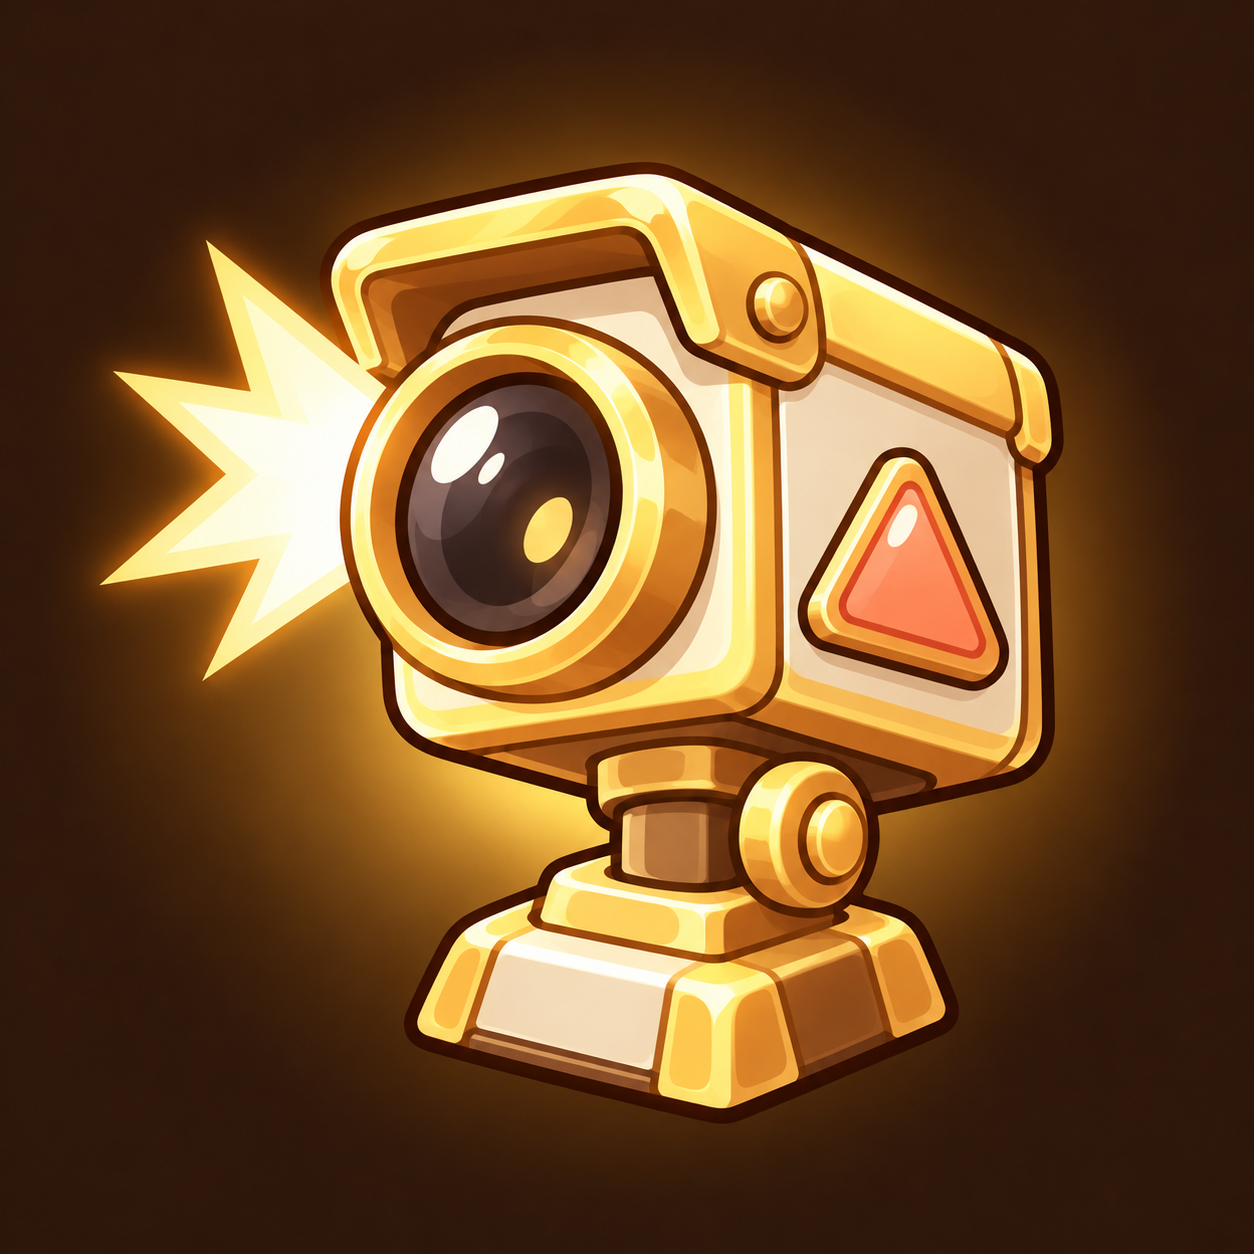
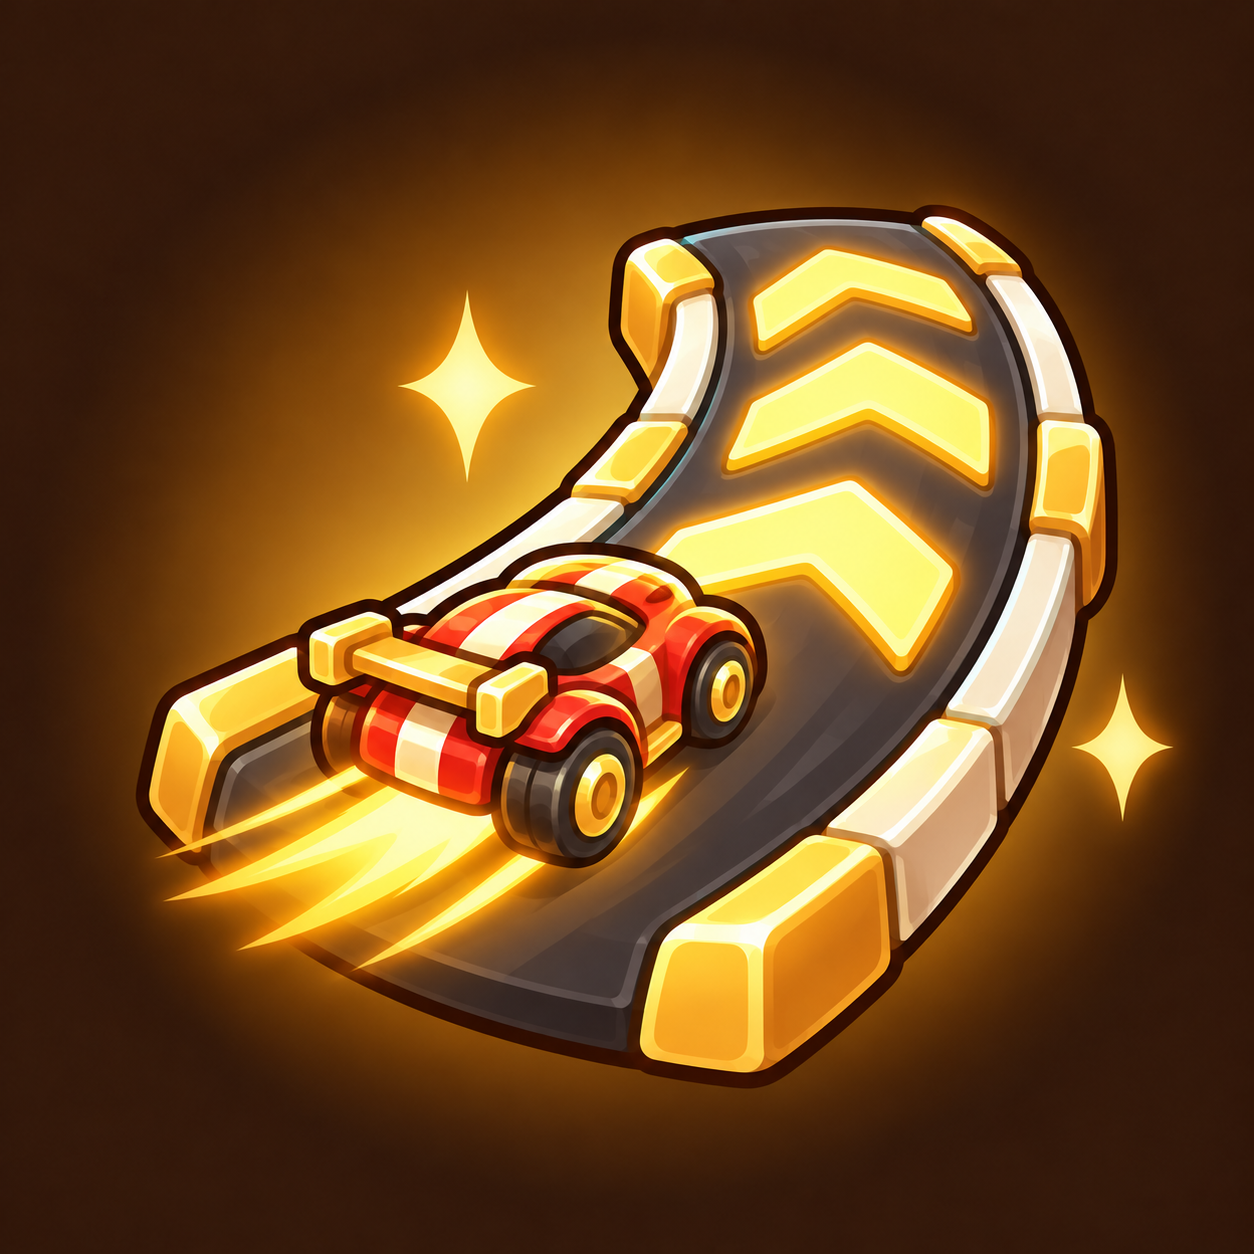
Redraw Autobahn and Sniper augments to match current effects

diff --git a/docs/ui-trial/augment-art-v04.md b/docs/ui-trial/augment-art-v04.md
@@ -1,0 +1,12 @@
+# Updated augment artwork: Autobahn and Sniper
+
+Two existing augment images now match the current rules:
+
+- **LAW_06 — 아우토반 무제한 과속:** replaces the retired speed-camera image with an accelerating red-and-gold toy car on a gold/ivory freeway with three forward boost chevrons. The current rule grants +3 movement on rolls of at least 5.
+- **SUPER_09 — 저격수의 표적:** replaces the flat reticle and obsolete `-5` label with a targeted red meeple launching from a spring cannon, plus a small forward chevron. The current effect ejects a leading enemy to start, advances the player's pawn by 4 and places a spring cannon at the targeted location.
+
+The two assets use the existing chunky gold/ivory cel-shaded style with dark backgrounds and circular-medallion composition. Numerical rules stay in the live card description. The gameplay rules and image lookup IDs are unchanged.
+
+Native-generated 1254×1254 PNG sources are preserved byte for byte at the existing resource paths. Both now import at 512 pixels with mipmaps and 90% lossy compression. Individual runtime settings are recorded in `content_trickcal/illustrations/manifest.json`; the full prompts, source events, old/new hashes and visual QA are also in `augment-art-v04.json`.
+
+`augment-art-v04.png` shows the actual game draft UI with both updated medallions. Validation covers all 50 draft image lookups, visual inspection at actual 110-pixel circular size, unit tests and Web export/package checks.
